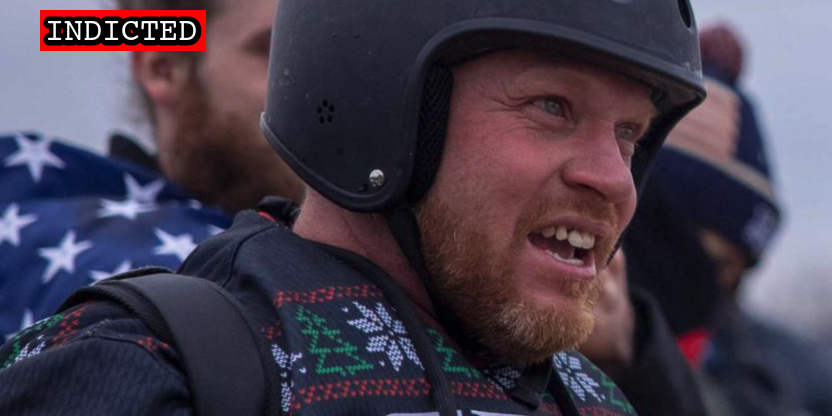
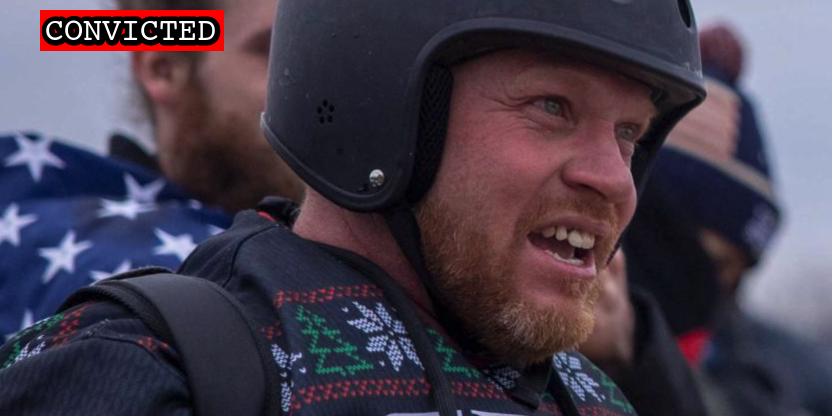
Hamner plea

Changed region(s): [[0.0312, 0.0, 0.2812, 0.125]]

diff --git a/docs/_suspects/timothy-hale-cusanelli.md b/docs/_suspects/timothy-hale-cusanelli.md
@@ -9,10 +9,12 @@ date: 2021-01-17
 charged: 2021-01-17
 indicted: 2021-01-29
 convicted:
+acquitted:
 sentenced:
 dismissed:
 deceased:
 plea_hearing:
+trial_date:
 sentencing:
 age: 30
 occupation: U.S. Army Reserves, U.S. Navy Contractor
@@ -36,11 +38,10 @@ videos:
 charges:
 sentence:
 ---
-
 - [News Report](https://www.app.com/story/news/crime/2021/01/17/timothy-louis-hale-cusanelli-colts-neck-man-military-contractor-capitol-pro-trump-mob/4199037001/)
 - [Complaint](https://www.justice.gov/opa/page/file/1356061/download)
 - [Statement of Facts](https://www.justice.gov/opa/page/file/1356066/download)
-- [Indictment](https://www.justice.gov/usao-dc/case-multi-defendant/file/1364776/download)
+- [Indictment](https://www.justice.gov/usao-dc/case-multi-defendant/file/1506931/download)
 - [Government Opposition to Release](https://extremism.gwu.edu/sites/g/files/zaxdzs2191/f/Timothy%20Hale-Cusanelli%20Govt%20Opposition%20to%20Motion%20for%20Conditional%20Release.pdf)
 - [Defense Motion for Modification of Bond](https://extremism.gwu.edu/sites/g/files/zaxdzs2191/f/Timothy%20Louis%20Hale-Cusanelli%20Defense%20Motion%20for%20Modification%20of%20Bond%20to%20Place%20the%20Defendant%20on%20Conditional%20Release.pdf)
 - [Defense Reply to Opposition to Motion for Release from Custody](https://extremism.gwu.edu/sites/g/files/zaxdzs2191/f/Timothy%20Louis%20Hale-Cusanelli%20Defense%20Reply%20to%20Opposition%20to%20Motion%20for%20Conditional%20Release.pdf)

diff --git a/docs/_suspects/thomas-hamner.md b/docs/_suspects/thomas-hamner.md
@@ -4,15 +4,17 @@ lastName: Hamner
 hashtag: UglyGunSweater
 aka:
 residence: Colorado
-status: Indicted
+status: Convicted
 date: 2021-10-29
 charged: 2021-10-29
 indicted: 2021-11-19
-convicted:
+convicted: 2022-05-17
+acquitted:
 sentenced:
 dismissed:
 deceased:
-plea_hearing:
+plea_hearing: 2022-05-17
+trial_date:
 sentencing:
 age:
 occupation:
@@ -34,8 +36,13 @@ published: true
 caseNumber: 1:21-mj-641
 videos:
 charges:
+  - code: 18 USC § 231(a)(3)
+    title: Civil Disorder
+    url: https://www.law.cornell.edu/uscode/text/18/231
+    felony: true
 sentence:
 ---
+
 - [News Report](https://www.thedenverchannel.com/news/local-news/colorado-man-charged-accused-of-fighting-with-police-at-jan-6-riot)
 - [Statement of Facts](https://www.justice.gov/usao-dc/case-multi-defendant/file/1448036/download)
-- [Indictment](https://extremism.gwu.edu/sites/g/files/zaxdzs2191/f/Thomas%20Patrick%20Hamner%20Indictment.pdf)
+- [Indictment](https://www.justice.gov/usao-dc/case-multi-defendant/file/1506936/download)
